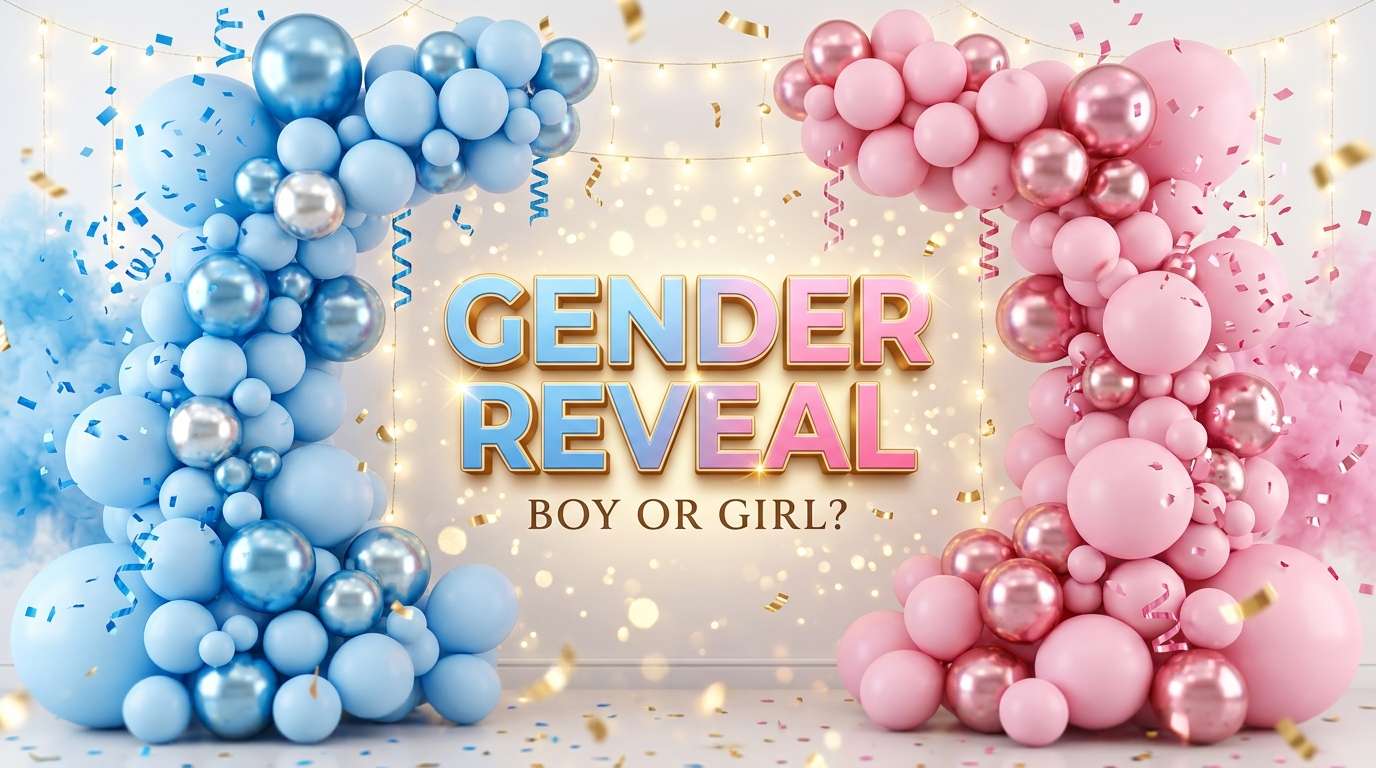
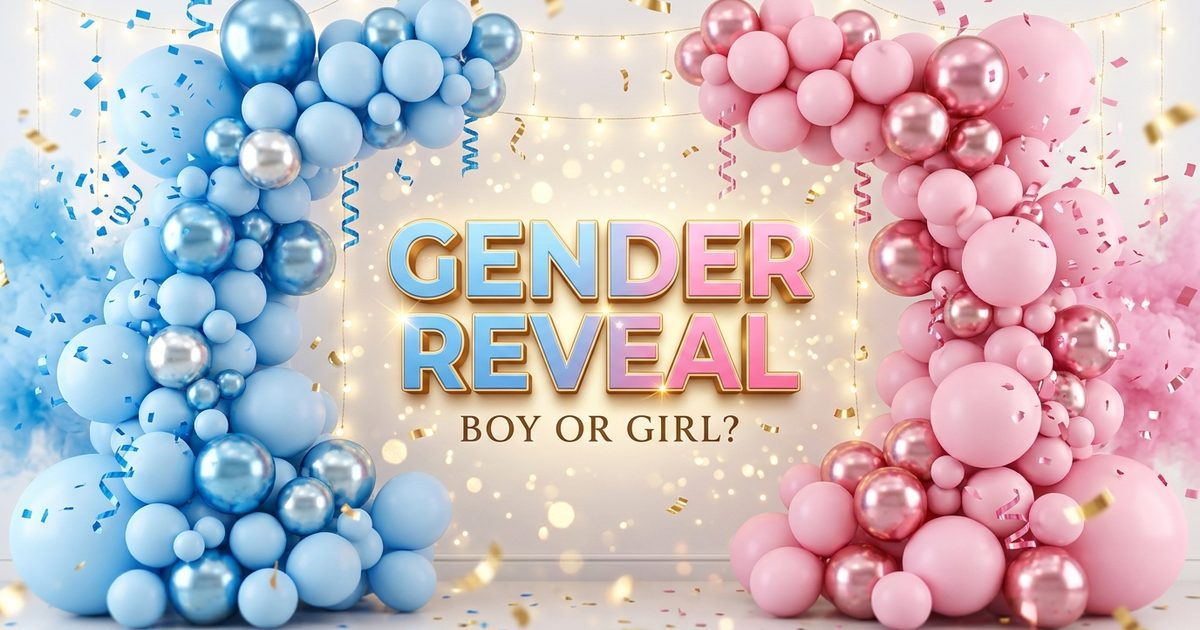
feat: initialize gender reveal web application with interactive guessing and language support

diff --git a/index.html b/index.html
@@ -26,11 +26,11 @@
   <meta property="og:title" content="Kevin & Alina • Gender Reveal">
   <meta property="og:description"
     content="Feiere mit uns den Gender Reveal von Alina & Kevin! Gib Deinen Tipp ab: Junge oder Mädchen? Erlebe den großen Reveal mit interaktiver Rubbelkarte!">
-  <meta property="og:image" content="https://babyparty.benedrive.de/og-image.jpg">
-  <meta property="og:image:secure_url" content="https://babyparty.benedrive.de/og-image.jpg">
+  <meta property="og:image" content="https://babyparty.benedrive.de/og-image.jpg?v=2">
+  <meta property="og:image:secure_url" content="https://babyparty.benedrive.de/og-image.jpg?v=2">
   <meta property="og:image:type" content="image/jpeg">
-  <meta property="og:image:width" content="1376">
-  <meta property="og:image:height" content="768">
+  <meta property="og:image:width" content="1200">
+  <meta property="og:image:height" content="630">
   <meta property="og:image:alt" content="Kevin & Alina Gender Reveal">
 
   <!-- Twitter Card -->
@@ -38,7 +38,7 @@
   <meta name="twitter:title" content="Kevin & Alina • Gender Reveal">
   <meta name="twitter:description"
     content="Feiere mit uns den Gender Reveal von Alina & Kevin! Gib Deinen Tipp ab: Junge oder Mädchen? Erlebe den großen Reveal!">
-  <meta name="twitter:image" content="https://babyparty.benedrive.de/og-image.jpg">
+  <meta name="twitter:image" content="https://babyparty.benedrive.de/og-image.jpg?v=2">
 
   <!-- Google Fonts: Editorial Serif + Clean Modern Sans + Kristi & Caveat Handwritten Scripts -->
   <link rel="preconnect" href="https://fonts.googleapis.com">
